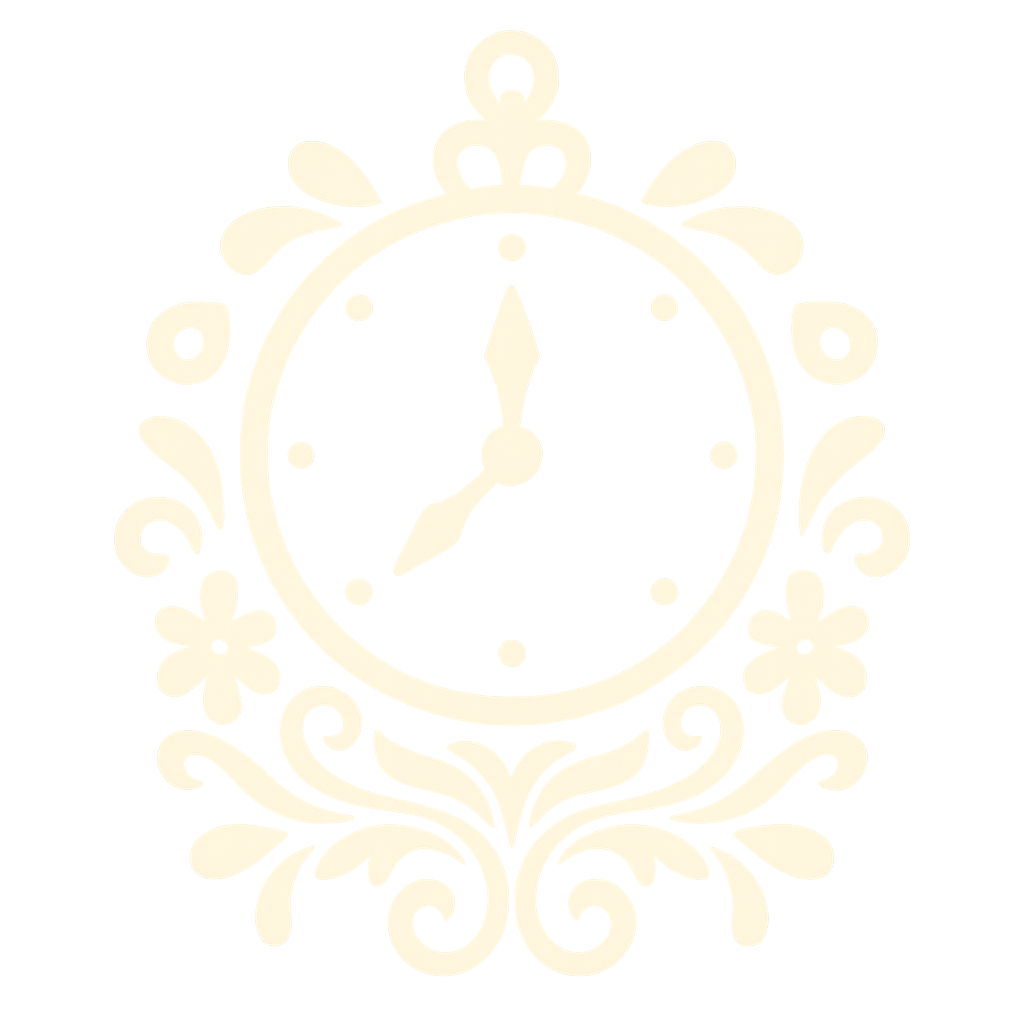
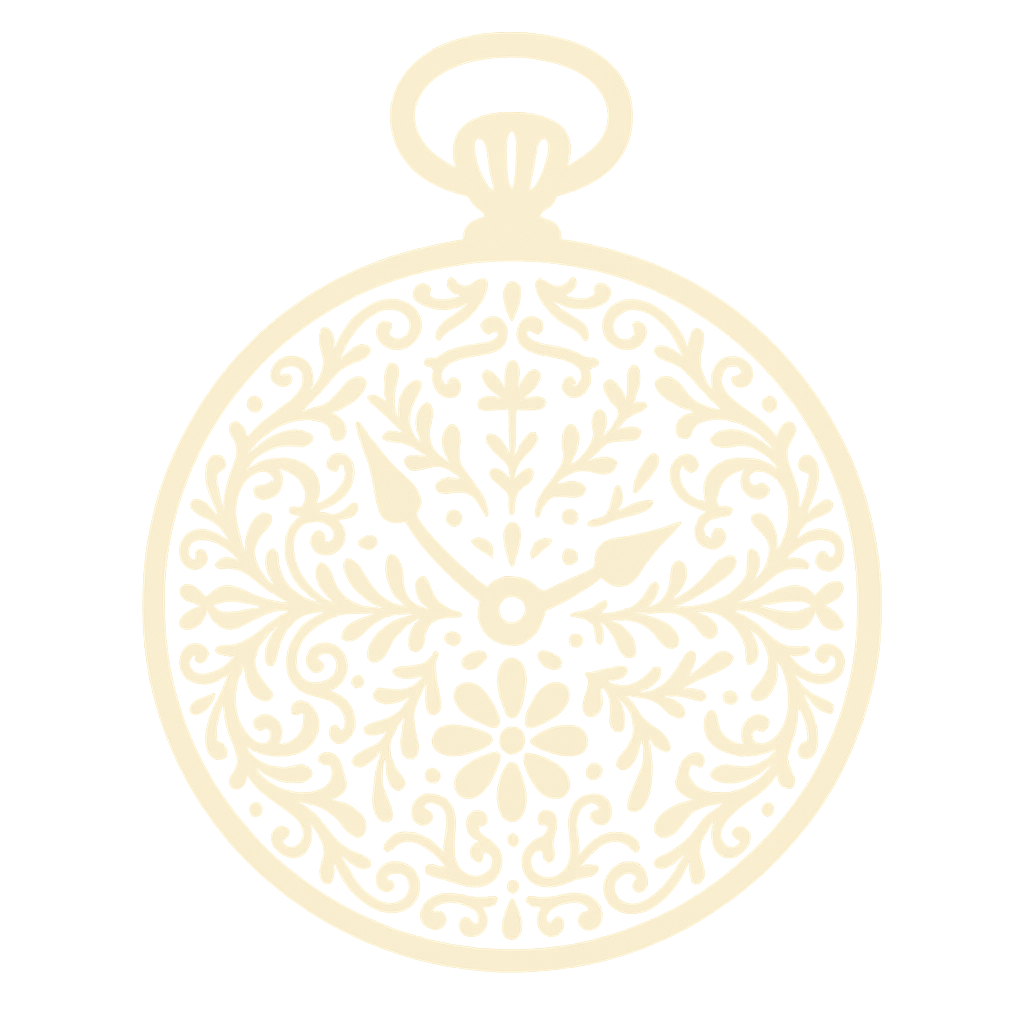
Actualizacion en todos los archivos

Changed region(s): [[0.0938, 0.0312, 0.9062, 0.9688]]

diff --git a/index.html b/index.html
@@ -91,7 +91,7 @@
           <img class="name img-fluid" src="Fotos/name.png" alt="nombres">
           <p class="mb-0">¡Nos casamos! <br>
           Viernes 31 de Octubre 2025 - 4:30 p.m.</p>
-          <img class="name-icon img-fluid" src="Fotos/rings.png" alt="Anillo">
+          <img class="name-icon img-fluid" src="Fotos/anillo.png" alt="Anillo">
     </div>
     
       <!-- Mapa -->
@@ -111,9 +111,10 @@
     
       <!-- RSVP -->
       <div class="container-fluid section-full section-alt text-center section-alt">
-        <img class="rsvp-icon img-fluid" src="Fotos/formulario.png" alt="RSVP">
+        <img class="rsvp-icon img-fluid" src="Fotos/confirmacion.png" alt="RSVP">
         <h3 class="title">Confirma tu asistencia</h3>
-        <p class="rsvp-text">Por favor confirma tu asistencia antes del 15 de agosto de 2025, así podremos organizarnos mejor.<br>
+        <p class="rsvp-text">Por favor confirma tu asistencia buscando tu nombre y llenando el siguiente formulario. <br>
+          La lista de invitados se cerrará el 31 de agosto de 2025, para poder organizarnos mejor.<br>
           ¡Gracias!</p>
           <div class="ratio ratio-4x3" style="max-width: 900px; margin: auto;">
             <iframe 
@@ -131,8 +132,7 @@
       <!-- Vestuario -->
       <div class="container-fluid section-full section-alt text-center section-alt full-height">
         <div class="d-flex justify-content-center align-items-center gap-3 mb-3">
-            <img class="vestuario-icon img-fluid suit" src="Fotos/tux.png" alt="Traje">
-            <img class="vestuario-icon img-fluid dress" src="Fotos/dress.png" alt="Vestido">
+            <img class="vestuario-icon img-fluid suit" src="Fotos/vestuario.png" alt="Vestuario">
         </div>
             <h3 class="title mt-3 suggestion">Dress Code: Día de Muertos 🇲🇽</h3>
             <p class="vestuario-text">Formal con un toque creativo. Será un gusto ver tu interpretación. ¡Las fotos serán inolvidables! 
@@ -144,7 +144,7 @@
     
       <!-- Registro -->
       <div class="container-fluid section-full section-alt text-center full-height">
-        <img class="registro-icon img-fluid" src="Fotos/gift.png" alt="Regalos">
+        <img class="registro-icon img-fluid" src="Fotos/regalo.png" alt="Regalos">
         <h3 class="title">Registro de boda</h3>
         <p class="mapa-text">Tu presencia es lo más importante para nosotros.<br> 
         Si deseas hacernos un detalle especial, hemos preparado un registro de regalos con algunas ideas.<br>
@@ -157,13 +157,13 @@
       <!-- Itinerario -->
 <div class="container-fluid section-full section-alt text-center">
   <img class="rsvp-icon img-fluid" src="Fotos/reloj.png" alt="RSVP">
-  <h3 class="title mb-4">Itinerario</h3>
+  <h3 class="title">Itinerario</h3>
 
   <div class="row justify-content-center">
     
     <!-- Evento 1 -->
     <div class="col-12 col-md-4 mb-4">
-      <img src="Fotos/icono-boda.png" alt="Ceremonia" class="img-fluid mb-2" style="max-width: 80px;">
+      <img src="Fotos/arco.png" alt="Ceremonia" class="img-fluid mb-2" style="max-width: 80px;">
       <h5 class="mb-1">Ceremonia</h5>
       <p class="mb-0">5:00 p.m.</p>
       <small>Club Majadas – Jardín</small>
@@ -171,7 +171,7 @@
 
     <!-- Evento 2 -->
     <div class="col-12 col-md-4 mb-4">
-      <img src="Fotos/icono-brindis.png" alt="Brindis" class="img-fluid mb-2" style="max-width: 80px;">
+      <img src="Fotos/brindis.png" alt="Brindis" class="img-fluid mb-2" style="max-width: 80px;">
       <h5 class="mb-1">Brindis y Recepción</h5>
       <p class="mb-0">6:00 p.m.</p>
       <small>Salón 1 y 2</small>
@@ -179,7 +179,7 @@
 
     <!-- Evento 3 -->
     <div class="col-12 col-md-4 mb-4">
-      <img src="Fotos/icono-cena.png" alt="Cena" class="img-fluid mb-2" style="max-width: 80px;">
+      <img src="Fotos/cena.png" alt="Cena" class="img-fluid mb-2" style="max-width: 80px;">
       <h5 class="mb-1">Cena</h5>
       <p class="mb-0">7:00 p.m.</p>
       <small>Salón 1 y 2</small>
@@ -187,7 +187,7 @@
 
     <!-- Evento 4 -->
     <div class="col-12 col-md-4 mb-4">
-      <img src="Fotos/icono-baile.png" alt="Baile" class="img-fluid mb-2" style="max-width: 80px;">
+      <img src="Fotos/fiesta.png" alt="Baile" class="img-fluid mb-2" style="max-width: 80px;">
       <h5 class="mb-1">Fiesta</h5>
       <p class="mb-0">8:30 p.m.</p>
       <small>Pista de baile</small>
@@ -195,7 +195,7 @@
 
     <!-- Evento 5 -->
     <div class="col-12 col-md-4 mb-4">
-      <img src="Fotos/icono-despedida.png" alt="Despedida" class="img-fluid mb-2" style="max-width: 80px;">
+      <img src="Fotos/carro.png" alt="Despedida" class="img-fluid mb-2" style="max-width: 80px;">
       <h5 class="mb-1">Despedida</h5>
       <p class="mb-0">10:00 p.m.</p>
       <small></small>

diff --git a/format.css b/format.css
@@ -329,9 +329,9 @@ margin-top: 15vh;
 }
 
 .countdown-container {
-margin-top: 6%;
+margin-top: 8%;
 width: 100%;
-left: 50%;
+left: 0%;
 transform: translateX(-76%);
 text-align: center;
 }
@@ -372,7 +372,7 @@ padding-bottom: 0;
 }
 
 .btn-primary{
-    margin-left: 35%;
+    margin-left: 32%;
 }
 
 .btn-success{
